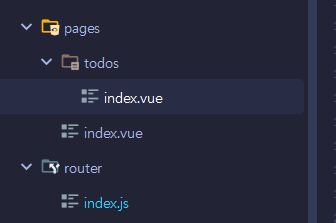
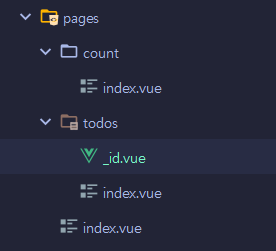
docs: router 내용 추가

diff --git a/notes/router.md b/notes/router.md
@@ -17,6 +17,11 @@ const router = createRouter({
             name        : 'Todo List',
             component   : Todos,
         },
+        {
+            path        : '/todos/:id', //pathParameter
+            name        : 'Todo',
+            component   : Todo
+        }
     ],
 });
 export default router;
@@ -48,11 +53,173 @@ createApp(App)
 <!--  최상위 컴포넌트  -->
 <template>
     <!-- router 등록 -->
-  <router-view/>
-  <div class="computed">
-    <ComputedCount/>
-  </div>
+  <router-view/> <!-- router에 등록한 pages 컴포넌트가 표시되는 곳 -->
         ...
+
 ```
 #### e. 기존 작성 내용 중 페이지 내용을 pages하위로 이동
 특히 Client Side Render인 경우 Page 쪽에서 하는 것을 권장
+
+#### f. pathParam으로 링크 처리
+useRoute를 사용
+```vue
+<template>
+  <h1>Todo </h1>
+</template>
+<script setup>
+  import {useRoute} from "vue-router";
+
+  const route = useRoute();
+  console.log(route.params.id);//이 값으로 페이지 내용 호출
+</script>
+```
+#### g. 다른 element를 눌렀을때 이동하도록 처리
+list로 반복되는 항목 내부에 이벤트리스너 추가
+```vue
+<template>
+  <div
+      v-for="(value,index) in todoList"
+      :key="value.id"
+      class="todoList card mt-2"
+  >
+    <div
+        class="card-body p-2 d-flex align-items-center"
+        @click="moveToPage(value.id)"
+    >
+        ...
+```
+script에서 id값을 받아 이동
+```vue
+<script >
+import {useRouter} from "vue-router";
+export default {
+    setup(){
+      const router = useRouter();
+      const moveToPage = (id)=>{
+        router.push(`/todos/${id}`);
+      }
+      return {
+        moveToPage,
+      }
+    }
+}
+</script>
+```
+router에 등록한 name으로도 이동가능
+```vue
+    <router-link class="navbar-brand" :to="{name: 'Home'}">Vue 3.0</router-link>
+```
+단, pathParameter가 필수인 경우 params를 obj로 추가해야함
+```vue
+<script setup>
+  const moveToPage = (id)=>{
+    // router.push(`/todos/${id}`);
+    router.push({
+      name:'Todo',
+      params: {
+        id: id,
+      }
+    })
+  }
+</script>
+```
+name을 사용하면 url 관리가 router에서만 이뤄져 편리.
+### 3. Navigation var
+router-veiw tag에는 페이지 내용이 표시되므로 상단에 목차를 둘 경우 <router-view/> 위에 배치
+```vue
+<template>
+  <Navbar/><!-- Navbar component-->
+  <router-view/> <!-- Pages components -->
+</template>
+```
+Navbar 내용은 bootstrap [예시](https://getbootstrap.com/docs/4.0/components/navbar/) 참고
+
+a tag는 페이지 전체를 re-render시키므로 vue의 router-link를 사용, href대신 to attribut를 사용
+```vue
+<template>
+  <nav class="navbar navbar-expand-lg navbar-light bg-light">
+    <router-link class="navbar-brand" to="/">Vue 3.0</router-link>
+    <ul class="navbar-nav mr-auto">
+      <li class="nav-item">
+        <router-link class="nav-link" to="/todos">Todo List</router-link>
+      </li>
+        ...
+</template>
+```
+### 4. vue-router 작동원리
+domain을 요청하게되면 서버에서 기본 index.html과 vue로 구성한 컴포넌트들이 한 파일로 조형되어 브라우저에 전달된다. 
+
+a tag를 사용하면 마운트 시점에서 이미 호출한 내용을 다시 호출하게된다. 
+
+router-view를 쓰면 페이지 요청을 가로채 이미 있는 데이터를 사용해 랜더한다. 
+
+client side render
+
+### 5. 이벤트 버블링
+delete 버튼을 누르면 링크를 이동하는 이벤트와 삭제하는 이벤트가 곂치면서 삭제와 함께 페이지를 이동하게 됨 
+
+하위의 삭제버튼에 click event가 발생하면 이것이 상위 element로 전달(이벤트 버블링)되면서 상위 element 중 하나인 detail page 이동 이벤트도 함께 진행됨
+```vue
+<template>
+  <!-- 이벤트 버블링으로 인해 click event가 처리됨-->
+  <div
+      class="card-body p-2 d-flex align-items-center"
+      @click="moveToPage(value.id)" 
+  >
+    <div class="form-check flex-grow-1">
+      &emsp;
+      <input
+          class="form-check-input"
+          type="checkbox"
+          :checked="value.completed"
+          @change="toggleTodo(index)"
+      />
+        &emsp;
+      <label class="form-check-label">
+        <h5
+            class="todoLabel"
+            :style="value.completed ? todoStyle:{}"
+        >
+          {{value.id}}. {{value.subject}}
+        </h5>
+      </label>
+    </div>
+    <div>
+      <!-- 이벤트가 발생한 지점. 상위 Dom으로 버블링 -->
+      <button
+          class="btn btn-outline-danger btn-sm"
+          @click="deleteTodo(index)"
+      >
+        Delete
+      </button>
+    </div>
+  </div>
+</template>
+```
+이를 방지하기 위해
+
+js에서는 stopPropagation 사용
+```javascript
+    event.stopPropagation();
+```
+
+vue.js에서는 event에 stop으로 표시(preventDefault와 같음)
+```vue
+<template>
+  <button
+      class="btn btn-outline-danger btn-sm"
+      @click.stop="deleteTodo(index)"
+  >
+    Delete
+  </button>
+<!-- check box, radio button 모두 마찬가지 -->
+  <input
+      class="form-check-input"
+      type="checkbox"
+      :checked="value.completed"
+      @change="toggleTodo(index, $event)"
+      @click.stop
+  />
+</template>
+```
+* 참고 $event는 개별 발생한 이벤트 객체를 받을 때 사용
